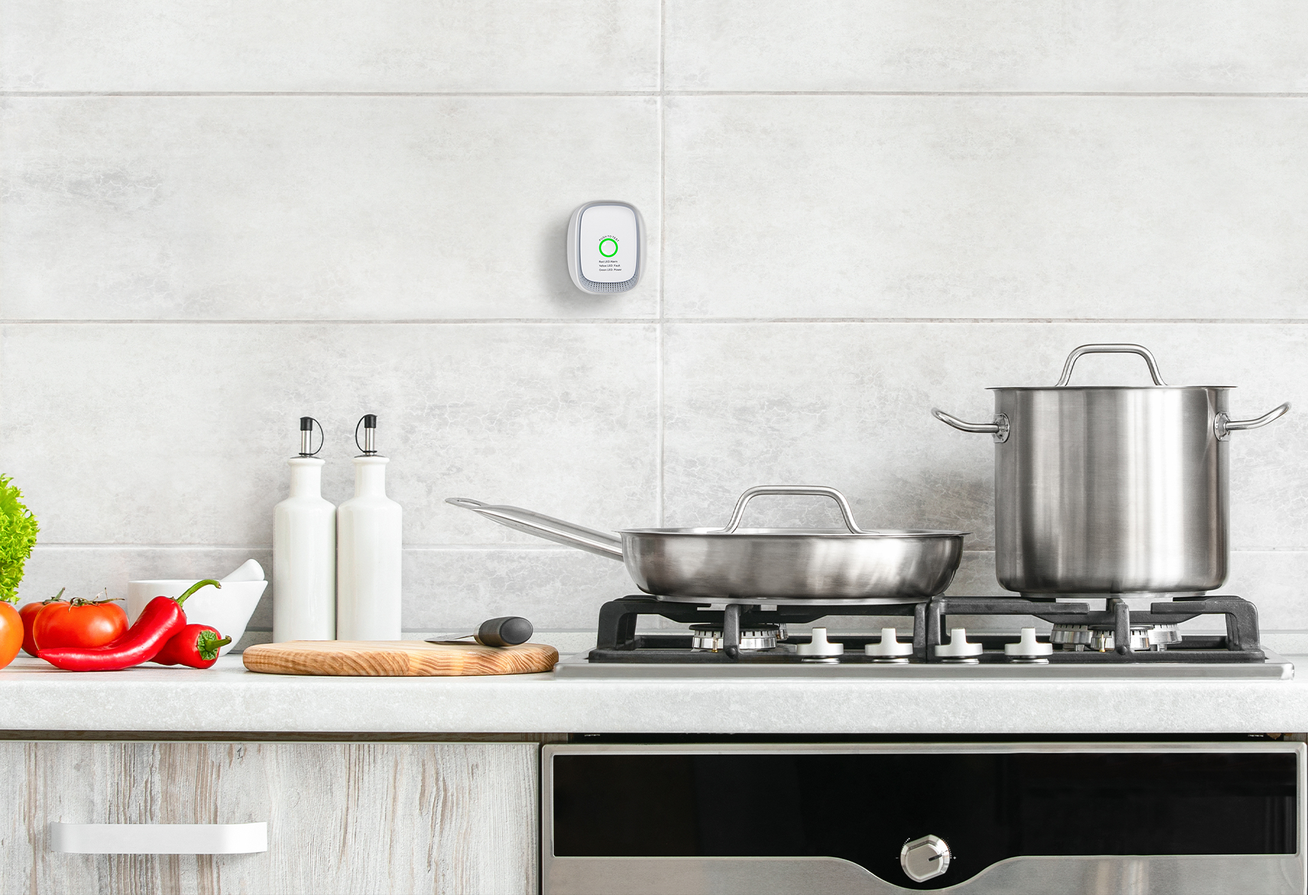
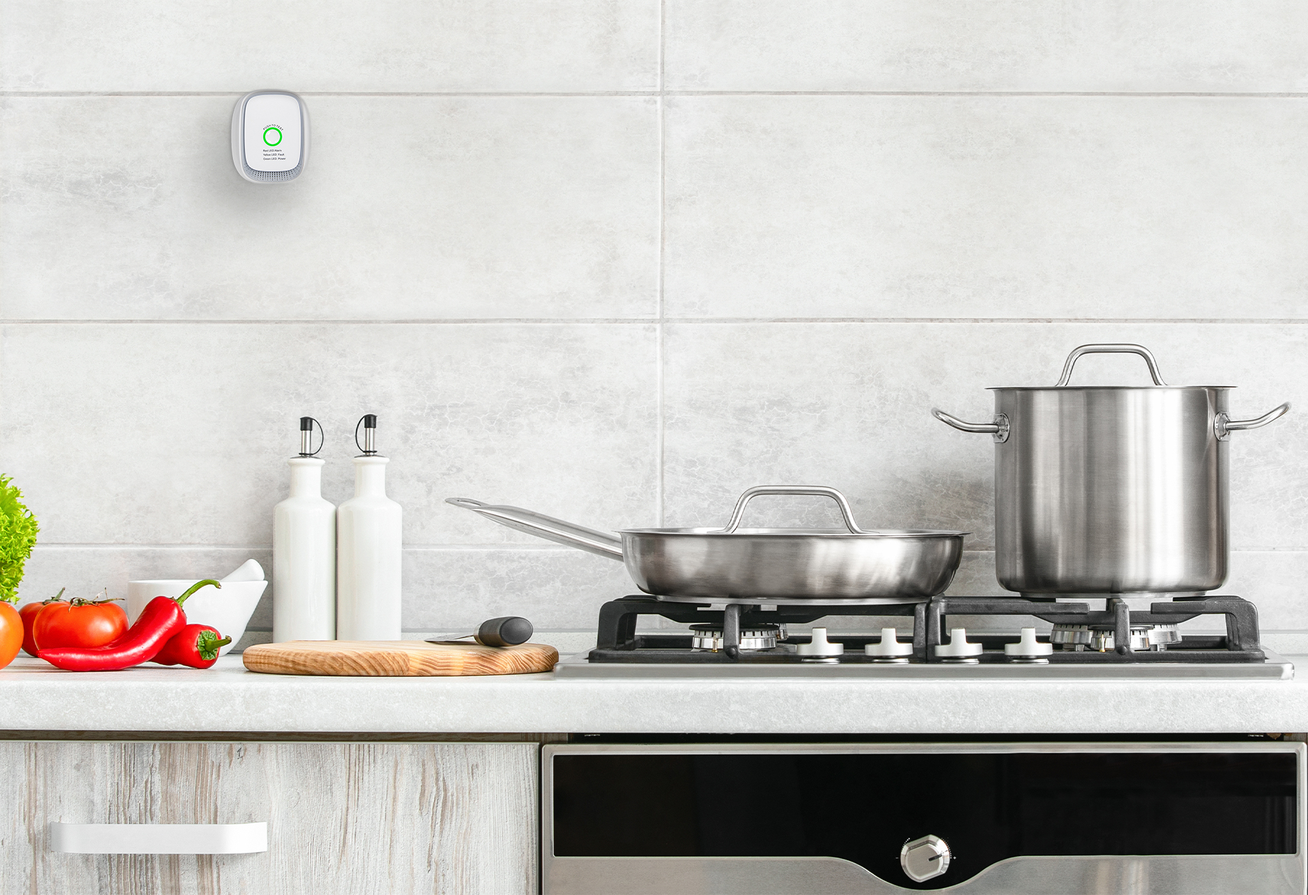
image rearengement and scaling fixed

Changed region(s): [[0.1562, 0.0936, 0.25, 0.2496], [0.4062, 0.2184, 0.5, 0.3744]]

diff --git a/index.html b/index.html
@@ -38,7 +38,7 @@
         <a href="#security" onclick="closeNav()">Vagyonbiztonság</a>
         <a href="#innovation" onclick="closeNav()">Kinetikus kapcsolók</a>
         <a href="#wall" onclick="closeNav()">Falba szerelhető Vezérlők</a>
-        <a href="#tuya" onclick="closeNav()">Vezérlés</a>
+        <a href="#Tuya" onclick="closeNav()">Vezérlés</a>
         <p class="pt-5" style="font-size: 2vh; color: white;">Gyakorlati Példák:</p>
         <a href="#pelda1" onclick="closeNav()">Reggeli Rutinok</a>
         <a href="#pelda2" onclick="closeNav()">Világításvezérlés</a>
@@ -61,7 +61,7 @@
         <a href="#m-safety" onclick="closeNav2()">Épületbiztonság</a>
         <a href="#m-security" onclick="closeNav2()">Vagyonbiztonság</a>
         <a href="#m-innovation" onclick="closeNav2()">Kinetikus kapcsolók</a>
-        <a href="#m-tuya" onclick="closeNav2()">Vezérlés</a>
+        <a href="#m-Tuya" onclick="closeNav2()">Vezérlés</a>
         <p class="pt-5" style="font-size: 2vh; color: white;">Gyakorlati Példák:</p>
         <a href="#m-pelda1" onclick="closeNav2()">Reggeli Rutinok</a>
         <a href="#m-pelda2" onclick="closeNav2()">Világításvezérlés</a>
@@ -79,8 +79,8 @@
             alt="zigbee-logo">
         <img id="wifi-logo" style="width: 7vh; cursor: pointer;" class="mr-3" src="./resources/img/wifi-logo.png"
             alt="wifi-logo">
-        <img id="tuya-logo" style="width: 7vh; cursor: pointer;" class="mr-3" src="./resources/img/tuya mini logo.png"
-            alt="tuya-logo">
+        <img id="Tuya-logo" style="width: 7vh; cursor: pointer;" class="mr-3" src="./resources/img/Tuya mini logo.png"
+            alt="Tuya-logo">
         <img onclick="openNav()" style="width: 5vh; cursor: pointer;" src="./resources/img/menu.png" alt="menuicon">
     </div>
     <div id="menu2" class="  mt-2 mr-5">
@@ -88,8 +88,8 @@
             alt="zigbee-logo">
         <img id="wifi-logo2" style="width: 7vh; cursor: pointer;" class="mr-3" src="./resources/img/wifi-logo.png"
             alt="wifi-logo">
-        <img id="tuya-logo2" style="width: 7vh; cursor: pointer;" class="mr-3" src="./resources/img/tuya mini logo.png"
-            alt="tuya-logo">
+        <img id="Tuya-logo2" style="width: 7vh; cursor: pointer;" class="mr-3" src="./resources/img/Tuya mini logo.png"
+            alt="Tuya-logo">
         <img onclick="openNav2()" style="width: 5vh; cursor: pointer;" src="./resources/img/menu.png" alt="menuicon">
     </div>
     
@@ -311,7 +311,7 @@
             <section class="ms-section section4">
                 <div class="row h-100 align-items-end">
                     <div class="col-12 ">
-                        <img src="./resources/img/security.png" class="vh-100 w-100" style="margin-left: -5%;"
+                        <img src="./resources/img/security.png" class="w-100 mt-0 pt-0" style="margin-left: -5%;"
                             alt="safety devices">
                     </div>
                 </div>
@@ -388,7 +388,7 @@
                     <div class="row pt-5">
                         <div class="col-sm-11 h-auto m-auto">
                             <p class="text1 py-3">
-                                Innovatív megoldásnak számít falba építhető új <strong>kinetikus aktuátor</strong>. Segítségével bármilyen kapcsoló képes vezérelni az aktuátorhoz csatolt eszközöket tuyatól függetlenül is. Kompakt méretének köszönhetően falba vagy Villanykapcsolók mögé is
+                                Innovatív megoldásnak számít falba építhető új <strong>kinetikus aktuátor</strong>. Segítségével bármilyen kapcsoló képes vezérelni az aktuátorhoz csatolt eszközöket Tuyatól függetlenül is. Kompakt méretének köszönhetően falba vagy Villanykapcsolók mögé is
                             </p>
                         </div>
                         <div class="col-2 my-auto">
@@ -436,7 +436,7 @@
             <section class="ms-section section7">
                 <div class="row align-items-center mb-5">
                     <div class="col-sm-2 ml-3 h-100 ">
-                        <img class="w-100 h-auto" src="./resources/img/tuya home.png" alt="tuyo home logo">
+                        <img class="w-100 h-auto" src="./resources/img/Tuya home.png" alt="tuyo home logo">
                     </div>
                     <div class="col-sm-8 mx-2 ">
                         <h1 class="header-text">
@@ -920,7 +920,7 @@
                                                 alt="Second slide smoke detection">
                                             <div class="carousel-caption d-none d-md-block">
                                                 <h4>
-                                                    Kapunyitas
+                                                    Kapunyitás
                                                 </h4>
                                             </div>
                                         </div>
@@ -1256,17 +1256,17 @@
                     </div>
                 </div>
             </section>
-            <section class="ms-section section3-r " id="tuyarightId">
+            <section class="ms-section section3-r " id="TuyarightId">
                 <div class="row h-100 align-items-end">
                     <div class="col-12 ">
-                        <img src="./resources/img/tuya.png" class=" " style="width: 102%;" alt="tuya funcions">
+                        <img src="./resources/img/Tuya.png" class=" " style="width: 102%;" alt="Tuya funcions">
                     </div>
                 </div>
             </section>
-            <section class="ms-section section7-r " id="tuyarightId">
+            <section class="ms-section section7-r " id="TuyarightId">
                 <div class="row h-100 align-items-end">
                     <div class="col-12 ">
-                        <img src="./resources/img/tuya.png" class=" " style="width: 102%;" alt="tuya funcions">
+                        <img src="./resources/img/Tuya.png" class=" " style="width: 102%;" alt="Tuya funcions">
                     </div>
                 </div>
             </section>
@@ -1658,7 +1658,7 @@
                             </div>
                             <div class="row align-items-center">
                                 <div class="col-9">
-                                    <p class="text1"> A jelet veszi a tuya rendszerrel mukodo kapunyito aktuator majd
+                                    <p class="text1"> A jelet veszi a Tuya rendszerrel mukodo kapunyito aktuator majd
                                         megnyitja a kaput a kifelé haladó jármű előtt a kaput
                                     </p>
                                 </div>
@@ -2152,11 +2152,11 @@
                 </div>
             </div>
         </section>
-        <section class=" pt-5 section7" id="m-tuya">
+        <section class=" pt-5 section7" id="m-Tuya">
             <div class="container-fluid ">
                 <div class="row align-items-center">
                     <div class="col-3">
-                        <img style="width: 100%;" src="./resources/img/tuya home.png" alt="vagyonbiztonsag icon">
+                        <img style="width: 100%;" src="./resources/img/Tuya home.png" alt="vagyonbiztonsag icon">
                     </div>
                     <div class="col-8">
                         <h1 class="m-header-text">
@@ -2213,7 +2213,7 @@
                         </p>
                     </div>
                     <div class="col-12 text-center">
-                        <img class="vw-100" style="object-fit:contain;" src="./resources/img/tuya.png" alt="">
+                        <img class="vw-100" style="object-fit:contain;" src="./resources/img/Tuya.png" alt="">
                     </div>
                 </div>
             </div>
@@ -2971,7 +2971,7 @@
                                                 alt="First slide temperature control">
                                             <div class="carousel-caption d-none d-md-block">
                                                 <h4>
-                                                    Kapunyitas
+                                                    Kapunyitás
                                                 </h4>
                                             </div>
                                         </div>
@@ -3008,7 +3008,7 @@
                                 </div>
                                 <div class="col-9">
                                     <p class="text1">
-                                        A jelet veszi a tuya rendszerrel mukodo kapunyito aktuator majd megnyitja a
+                                        A jelet veszi a Tuya rendszerrel mukodo kapunyito aktuator majd megnyitja a
                                         kaput a kifelé haladó jármű előtt a kaput
                                     </p>
                                 </div>
